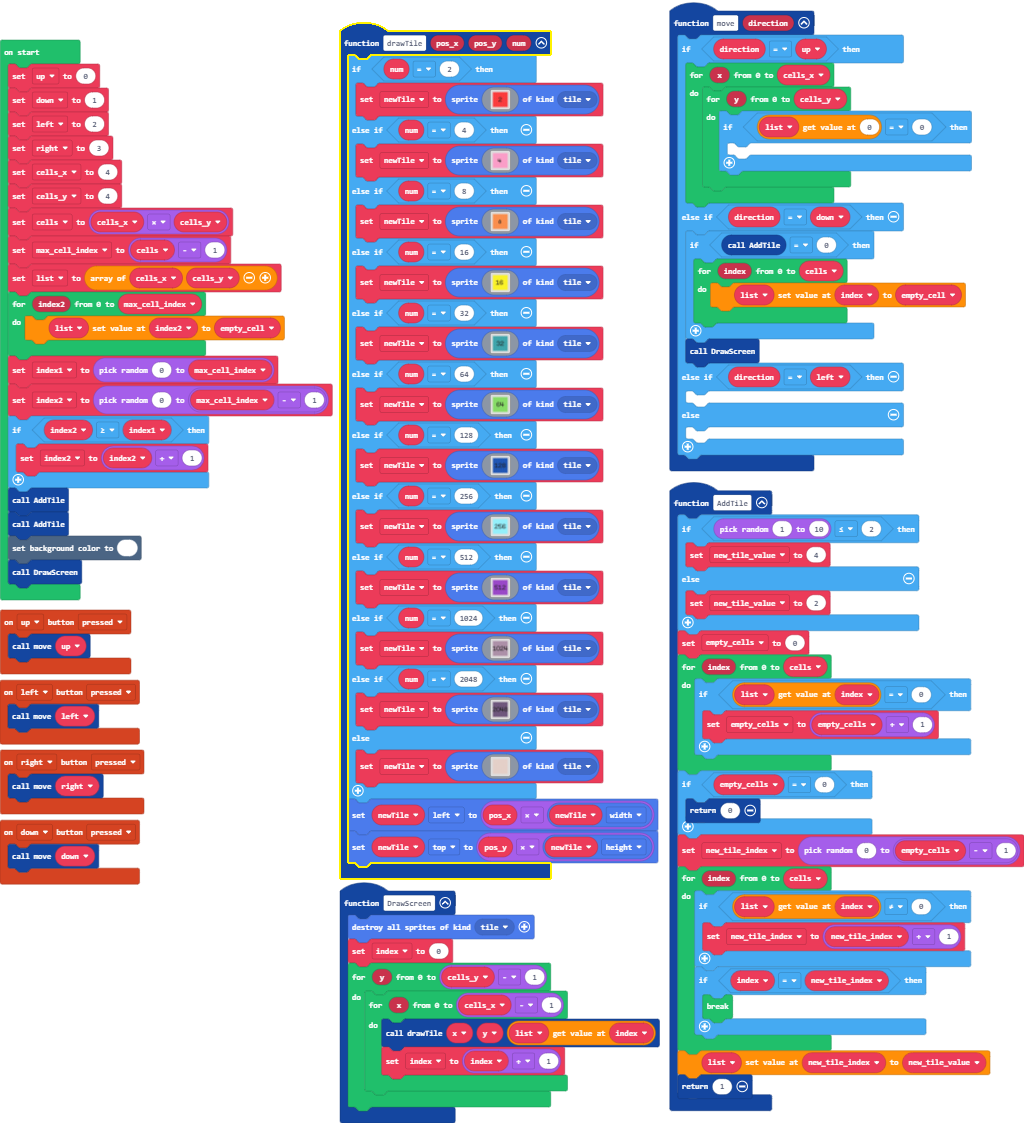
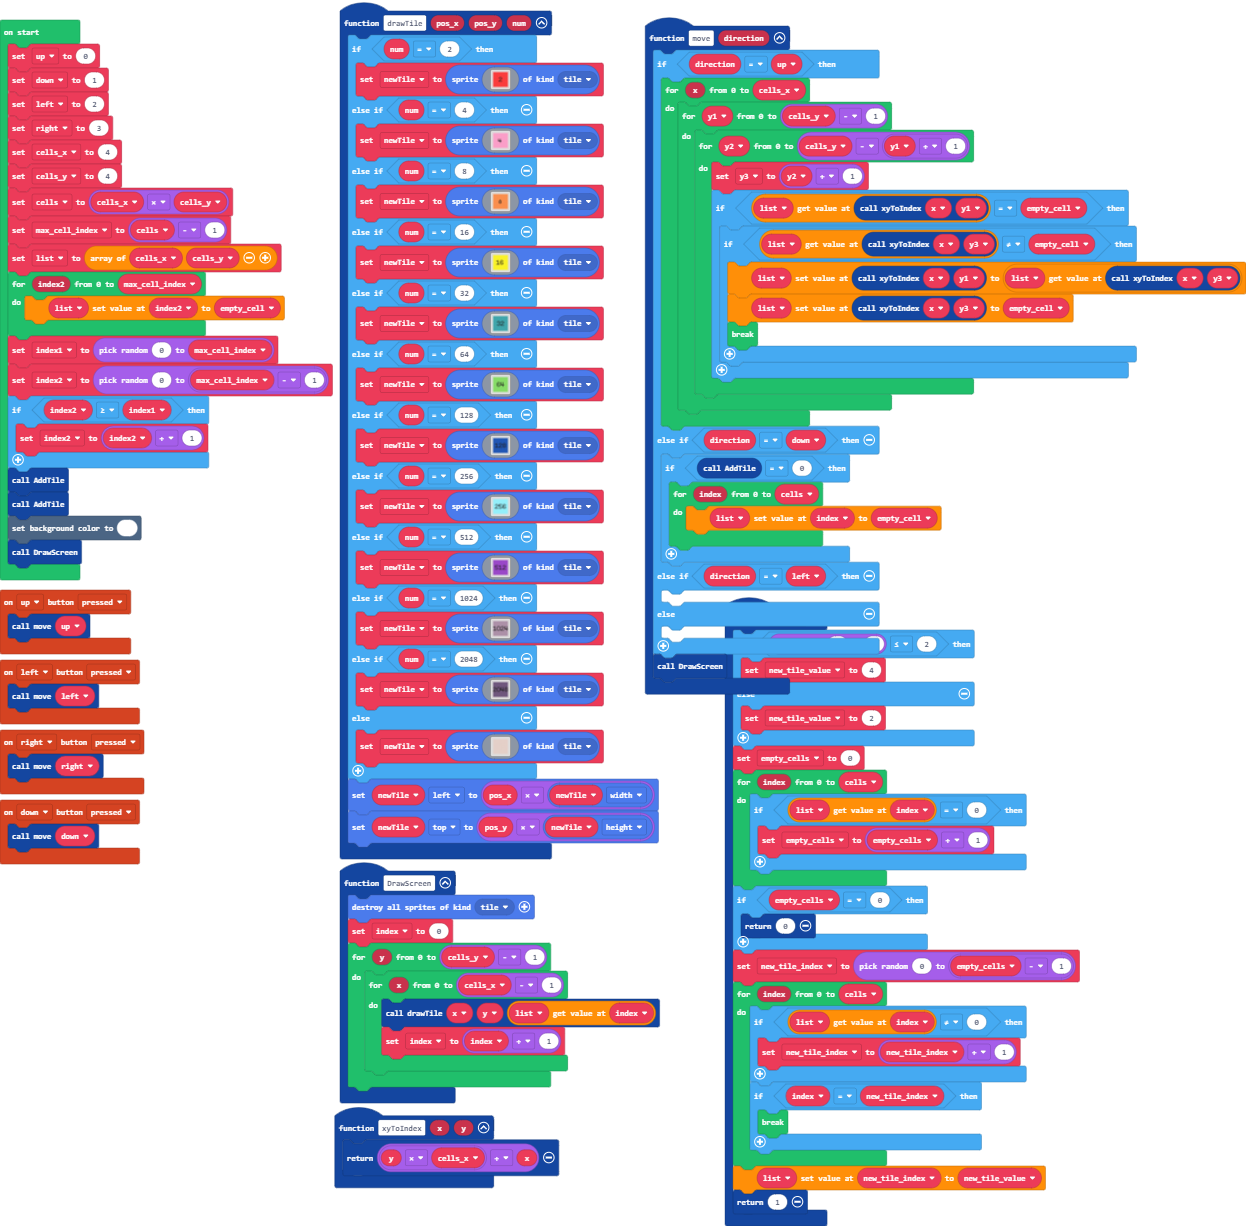
Update main.blocks, main.ts

diff --git a/main.ts b/main.ts
@@ -14,6 +14,9 @@ function DrawScreen () {
 controller.up.onEvent(ControllerButtonEvent.Pressed, function () {
     move(up)
 })
+function xyToIndex (x: number, y: number) {
+    return y * cells_x + x
+}
 controller.left.onEvent(ControllerButtonEvent.Pressed, function () {
     move(left)
 })
@@ -394,9 +397,16 @@ function drawTile (pos_x: number, pos_y: number, num: number) {
 function move (direction: number) {
     if (direction == up) {
         for (let x = 0; x <= cells_x; x++) {
-            for (let y = 0; y <= cells_y; y++) {
-                if (list[0] == 0) {
-                	
+            for (let y1 = 0; y1 <= cells_y - 1; y1++) {
+                for (let y2 = 0; y2 <= cells_y - (y1 + 1); y2++) {
+                    y3 = y2 + 1
+                    if (list[xyToIndex(x, y1)] == empty_cell) {
+                        if (list[xyToIndex(x, y3)] != empty_cell) {
+                            list[xyToIndex(x, y1)] = list[xyToIndex(x, y3)]
+                            list[xyToIndex(x, y3)] = empty_cell
+                            break;
+                        }
+                    }
                 }
             }
         }
@@ -406,13 +416,14 @@ function move (direction: number) {
                 list[index] = empty_cell
             }
         }
-        DrawScreen()
     } else if (direction == left) {
     	
     } else {
     	
     }
+    DrawScreen()
 }
+let y3 = 0
 let newTile: Sprite = null
 let new_tile_index = 0
 let empty_cells = 0
